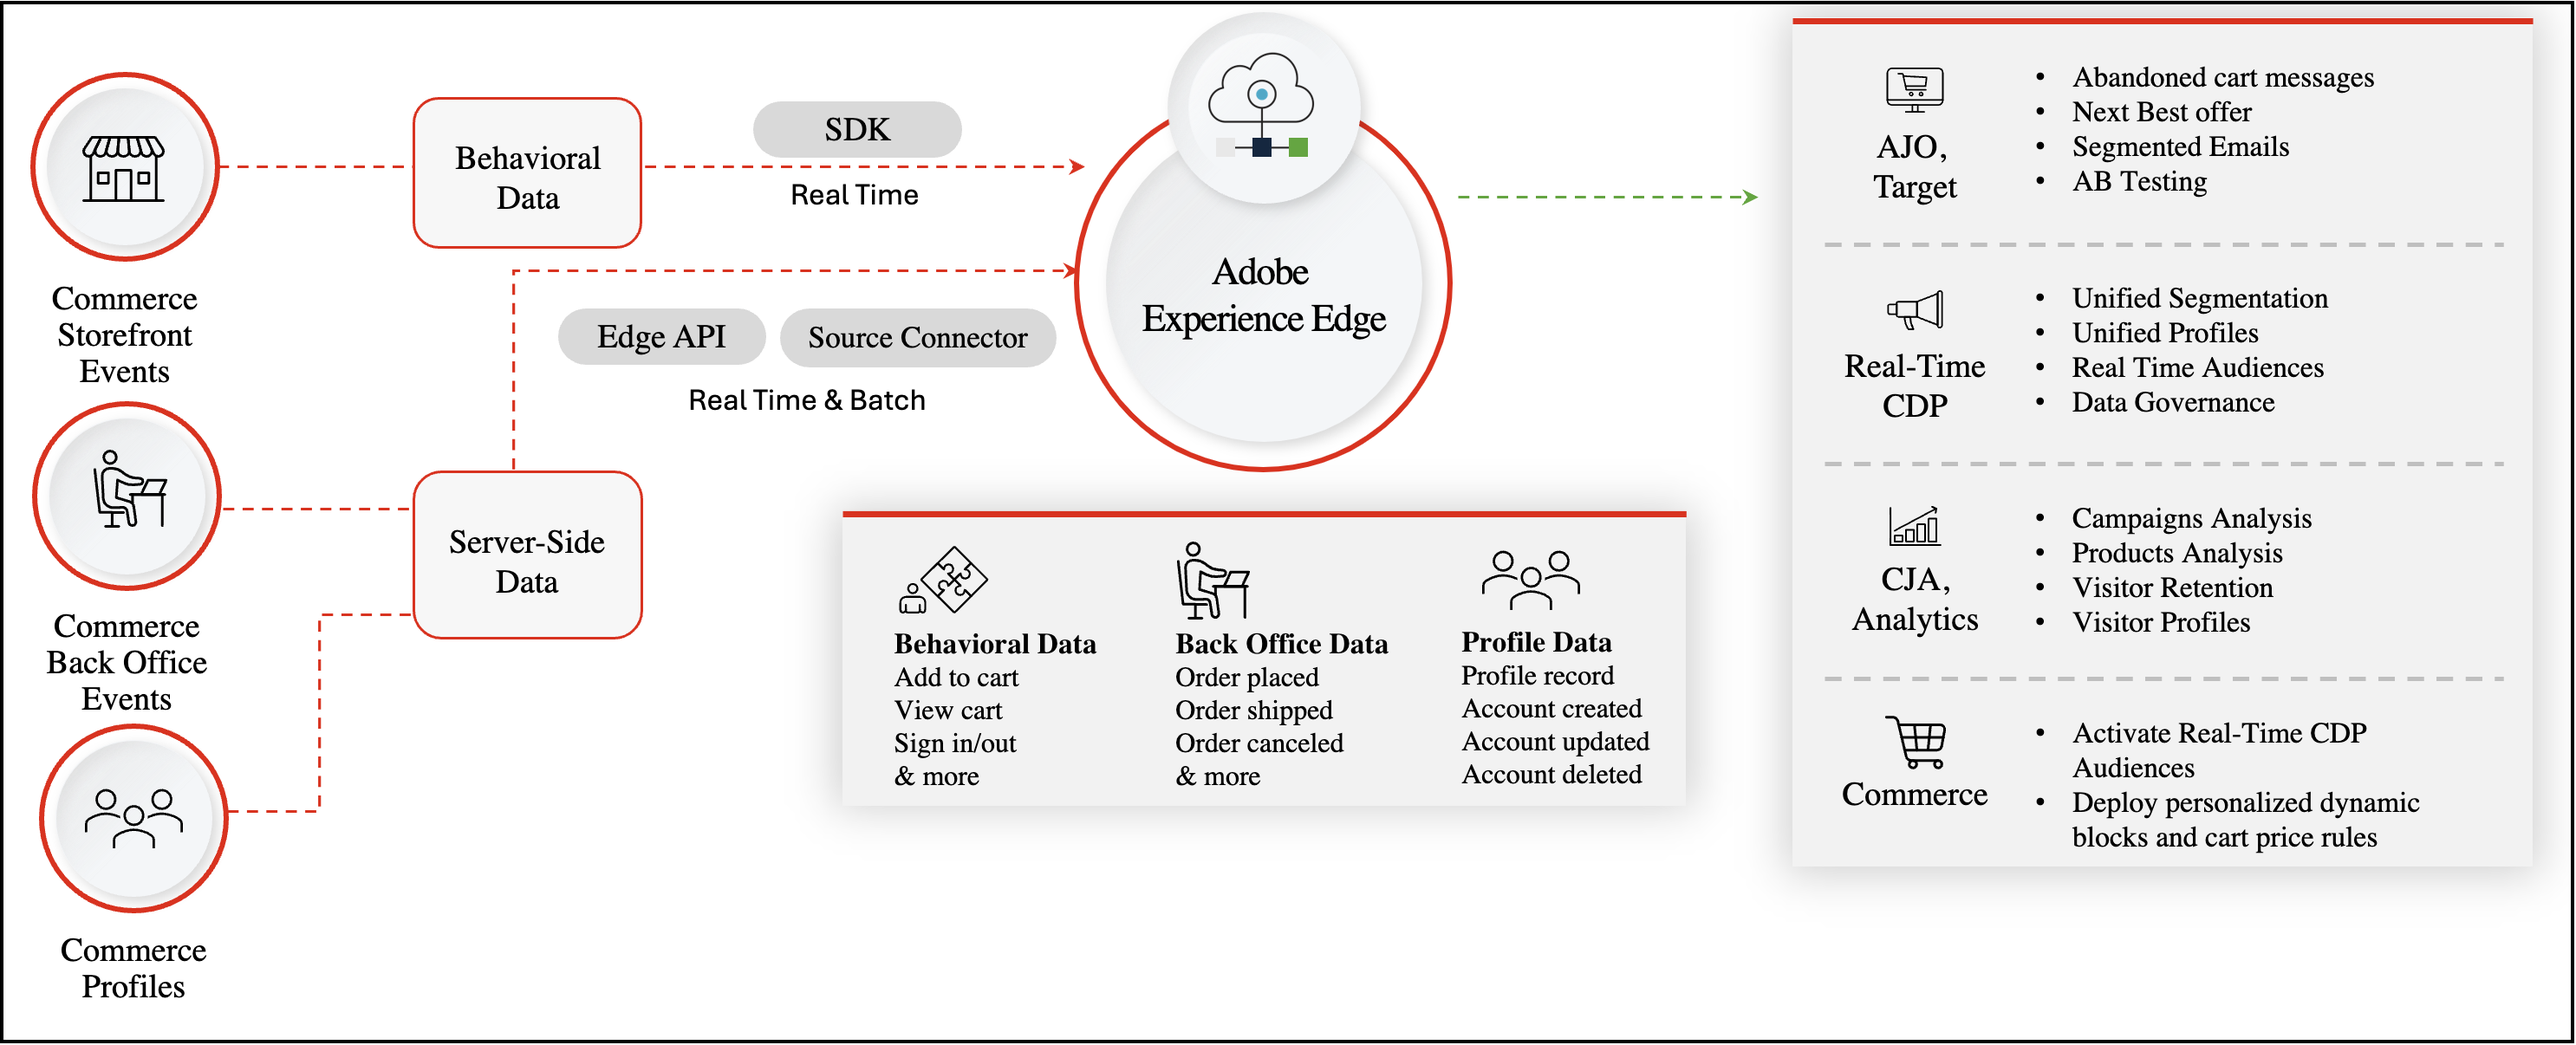
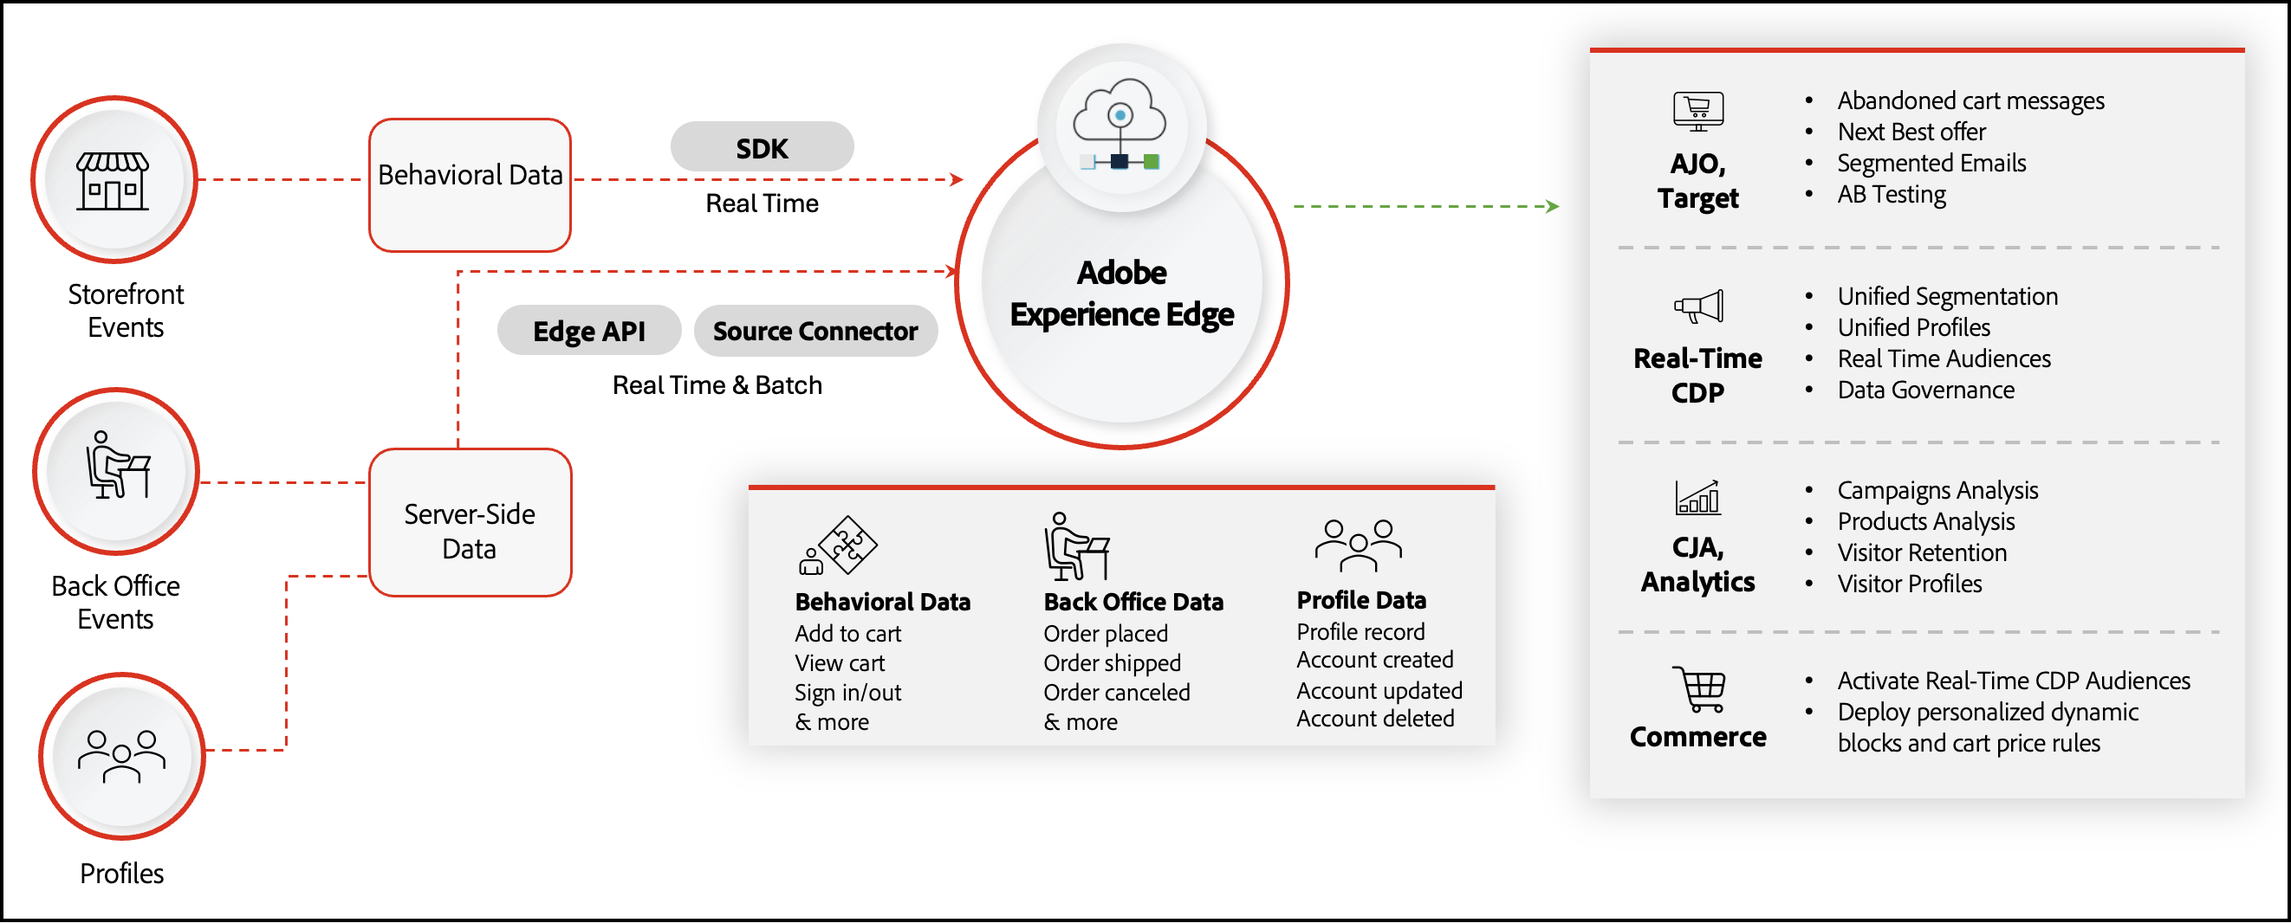
enter feedback

diff --git a/help/customers/personalize-scale.md b/help/customers/personalize-scale.md
@@ -21,21 +21,52 @@ This article discusses each of the above concepts in more detail.
 
 Successful personalization starts with customer context. In this section, you learn about the data types that are available to help you build the customer context.
 
-### Behavioral data
+### Storefront data
 
-Behavioral data answers the question: How do shoppers interact with your site? For example:
+Storefront data, also called behavioral or browser data, answers the question: How do shoppers interact with your site? For example
 
 - What products and categories are my shoppers most interested in?
 - What kind of search queriers are my shoppers most engaged in?
-- What is the order life cycle like? Are my shoppers returning products?
 - Are my shoppers adding products to the cart and then abandoning it?
 - Are my shoppers using a desktop or mobile browser?
 
-While this list is not exhaustive, it helps us shed light on the diverse domains where behavioral information can be captured
+The following storefront events capture data that can help you answer these questions:
 
-### Customer profile data
+- View page
+- Search request
+- Search response
+- View category
+- View product page
+- Add to cart
+- View cart
+- Sign in
+- Sign out
+- Start checkout
+- Complete checkout
+- Create requisition list
+- Add to requisition list
+- Remove from requisition list
+- Quote accepted
 
-Customer profile data answers the question: Who are your shoppers? For example, what is their:
+### Back office data
+
+Back office data, also called server-side data, answers the question: What is the order life cycle for my shoppers? For example:
+
+- Are there products that are purchased more frequently based on season?
+- Are my shoppers returning products?
+- How can I calculate lifetime customer value?
+
+The following back office events capture data that can help you answer these questions:
+
+- Order placed
+- Order returned
+- Order shipped
+- Order canceled
+- Order history (past five years of transactions)
+
+### Customer profile and segment data
+
+Customer profile data answers the question: Who are your shoppers? Which segments do your shoppers qualify for? For example:
 
 - Name
 - Gender
@@ -43,87 +74,70 @@ Customer profile data answers the question: Who are your shoppers? For example, 
 - Loyalty status
 - Phone number
 - Email address
-
-### Segment data
-
-Segment data answers the question: Which segments do your shoppers qualify for. For example, are they:
-
-- Eligible for upgrades
+- Loyalty status
+- Phone number
+- Email address
+- Eligibility for upgrades
 - Cross-channel shoppers
 - Prospects for new products
 - Gold, silver, or bronze loyalty members
 
-The above data forms the foundation of the Commerce customer context, which helps you know what products your customers are viewing and ultimately purchasing. You can then target their interests and personalize their experience.
+The following profile events capture data that can help you answer these questions:
 
-In the next two sections, you learn how you can use this data in [Adobe Experience Platform](#using-commerce-data-in-adobe-experience-platform) and in [native Commerce features](#using-commerce-data-in-native-commerce-features) to personalize the shopping experience.
+- Profile record
+- Account created
+- Account updated
+- Account deleted
+
+The above data forms the foundation of the Commerce customer and order context, which helps you know what products your customers are viewing and ultimately purchasing. You can then target their interests and personalize their experience. In the next section, you learn what types of personalized experiences you can engage in with  your shoppers.
+
+## Types of personalized experiences
+
+The customer and order context data in Commerce fuels the following types of personalized experiences:
+
+|Experience|Description|
+|---|---|
+|**Product discovery**|Contains merchandising services that are [deployed as SaaS](https://experienceleague.adobe.com/docs/commerce-merchant-services/user-guides/integration-services/saas.html). These are features that allow you to use behavioral data, product attributes, and inventory levels to automatically personalize product discovery across search results, product recommendations, and browsing pages. These features all use [Adobe Sensei AI](https://business.adobe.com/products/sensei/adobe-sensei.html).|
+|**Site content**|Refers to the ability to deploy personalized dynamic content blocks based on the current customer browsing your site.|
+|**Offers and campaigns**|Lets you deploy personalized promotional content based on segment data.|
+|**Measurement**|Uses data intelligence to better understand your business including revenue, channel and merchandise performance, promotions, and so on.|
+
+In the next two sections, you learn how you can use this data to create personalized experiences in [Adobe Experience Platform](#using-commerce-data-in-adobe-experience-platform) and in [native Commerce features](#using-commerce-data-in-native-commerce-features).
 
 ## Using Commerce data in Adobe Experience Platform
 
-The Adobe Experience Platform provides a suite of technologies, that when hydrated with data from your Commerce store, can distribute that data through the Edge Network to other Adobe DX products to unlock insights into your shopper's buying behavior. With these deep insights, you can create a more personalized shopping experience across all channels.
+To create a personalized experience for your shoppers across all channels, send your Commerce data to the Experience Platform Edge Network using the [[!DNL Data Connection]](https://experienceleague.adobe.com/docs/commerce-merchant-services/data-connection/overview.html) extension.
 
 ![How data flows to the Experience Platform edge](assets/commerce-edge.png){width="700" zoomable="yes"}
 
-To learn more about how you can send your Commerce data to the Experience Platform, see [Data Connection](https://experienceleague.adobe.com/docs/commerce-merchant-services/data-connection/overview.html).
+In the above image, your storefront, back office, and customer profile data is sent to the Experience Platform edge using an SDK, API, and a source connector. You do not need to fully understand how those pieces work as the extension handles the data sharing complexity for you. When the event data is at the edge, you can pull that data into other Experience Platform applications.
 
-In the following section, you learn how you can use native Commerce features, such as Product Recommendations and Live Search to create that personalized shopping experience. You will also learn about a feature called [!DNL Audience Activation], which uses data from a product available in the Experience Platform called Real-Time CDP. While Real-Time CDP is not native to Commerce, its information can be ingested into Commerce through the [[!DNL Audience Activation]](https://experienceleague.adobe.com/docs/commerce-admin/customers/audience-activation.html) extension.
+The following table highlights some of the Experience Platform applications available and how those applications use your Commerce data.
+
+|Experience|Application|How Commerce Data is Used|
+|---|---|---|
+|**Site content**|[Adobe [!DNL Real-Time CDP]](https://experienceleague.adobe.com/docs/experience-platform/rtcdp/intro/rtcdp-intro/overview.html)|Adobe Commerce data fuels unified customer profiles, with Real-Time CDP stitching data from across sources (ERP, CRM, CMS, POS) into singular profiles. Real-Time CDP can also create both rules-based and AI-based segments to then use across your marketing solution set. You can also use Real-Time CDP audiences to personalize content blocks, promotions, and related product rules. See [[!DNL Audience Activation]](../customers/audience-activation.md) to learn more.|
+||[Adobe [!DNL Target]](https://experienceleague.adobe.com/docs/target/using/introduction/intro.html)|Adobe Commerce data can be activated in Adobe [!DNL Target] for testing, optimization, and creating dynamic landing pages. You can personalize the order that content is shown on a page, such as descriptions, specifications, reviews, and recommended products based on the Commerce data sent.|
+|**Offers and campaigns**|[Adobe [!DNL Journey Optimizer]](https://experienceleague.adobe.com/docs/journey-optimizer/using/get-started/get-started.html)|Adobe Commerce behavioral and back office data can serve as a trigger for personalized omni-channel journeys, including email campaigns, SMS, push notifications and more.|
+|**Measurement**|[Adobe [!DNL Analytics]](https://experienceleague.adobe.com/docs/analytics/analyze/admin-overview/analytics-overview.html) and [Customer [!DNL Journey Analytics]](https://experienceleague.adobe.com/docs/analytics-platform/using/cja-overview/cja-overview.html)|Commerce sends both storefront and back-office data to Customer [!DNL Journey Analytics] (and only storefront data to Adobe [!DNL Analytics]) to allow for richer analysis beyond basic metrics in Adobe Commerce Intelligence, such as revenue, merchandise, and promotions.|
+
+
+To learn more about how you can send your Commerce data to the Experience Platform, see [Data Connection](https://experienceleague.adobe.com/docs/commerce-merchant-services/data-connection/overview.html).
 
 ## Using Commerce data in native Commerce features
 
-Sitting on top of the customer context data in Commerce is the experience layer. This layer is composed of the Commerce features that can act on the context data and is divided into four main pillars:
+In the following section, you learn how you can use native Commerce features, such as Product Recommendations and Live Search to create a personalized shopping experience. You will also learn about a feature called [!DNL Audience Activation], which uses data from a product available in the Experience Platform called Real-Time CDP, as mentioned [previously](#using-commerce-data-in-adobe-experience-platform). While Real-Time CDP is not native to Commerce, its information can be ingested into Commerce through the [[!DNL Audience Activation]](../customers/audience-activation.md) extension.
 
-- Product discovery
-- Site content
-- Offers and campaigns
-- Measurement
+The following table highlights the Commerce features available to turn the Commerce customer and order context data into actionable insights.
 
-The following sections describe each of the pillars in the experience layer in more detail and provides the list of available Commerce features you can use to turn the context data into actionable insights.
-
-### Product discovery
-
-The product discovery pillar contains merchandising services that are [deployed as SaaS](https://experienceleague.adobe.com/docs/commerce-merchant-services/user-guides/integration-services/saas.html). These are features that allow you to use behavioral data, product attributes, and inventory levels to automatically personalize product discovery across search results, product recommendations, and browsing pages. These features all use [Adobe Sensei AI](https://business.adobe.com/products/sensei/adobe-sensei.html).
-
-#### Commerce features to use
-
-You can use the following Commerce features to assist in product discovery.
-
-- **Product Recommendations** - Displays AI-fueled product recommendations based on shopper behavior, trends, product similarity and more. When combined with your Adobe Commerce catalog, product recommendations deliver a highly engaging, relevant, and personalized experience. [Learn more](https://experienceleague.adobe.com/docs/commerce-merchant-services/product-recommendations/guide-overview.html).
-
-- **Live Search** - Uses AI ranking algorithms to personalize and optimize search results based on a shopper's on-site behavioral actions, boosting search relevance and conversion. [Learn more](https://experienceleague.adobe.com/docs/commerce-merchant-services/live-search/guide-overview.html).
-
-- **Category Merchandising** - Accessed from the Live Search Admin, category merchandising uses AI to automatically rerank the sequence of products on each category page to boost relevance and conversion for every shopper. You can create and manage AI-powered rules to automatically rerank product sequencing on category pages according to shopper actions and affinities. [Learn more](https://experienceleague.adobe.com/docs/commerce-merchant-services/live-search/live-search-admin/category-merch.html).
-
-### Site content
-
-The site content pillar refers to the ability to deploy personalized dynamic content blocks based on the current customer browsing your site.
-
-#### Commerce features to use
-
-You can use the following Commerce features to assist in personalizing site content.
-
-- **Dynamic blocks informed by native Commerce features** - Allows you to deliver personalized site content based on logic configured in price rules and customer segments. [Learn more](https://experienceleague.adobe.com/docs/commerce-admin/content-design/elements/dynamic-blocks/dynamic-blocks.html).
-
-- **Dynamic blocks informed by Real-Time CDP audiences** - Enables merchants to deliver personalized site content based on audiences configured in Real-Time CDP. [Learn more](https://experienceleague.adobe.com/docs/commerce-admin/customers/audience-activation.html).
-
-### Offers and campaigns
-
-The offers and campaigns pillar lets you deploy personalized promotional content based on segment data.
-
-#### Commerce features to use
-
-You can use the following Commerce features to assist in creating personalized offers and campaigns.
-
-- **Cart price rules** - Lets you apply discounts to items in the shopping cart based on a set of conditions. [Learn more](https://experienceleague.adobe.com/docs/commerce-admin/marketing/promotions/cart-rules/price-rules-cart.html).
-
-- **Dynamic blocks informed by native Commerce features** - Allows you to display personalized banner promotions based on customer segments configured natively in Commerce. [Learn more](https://experienceleague.adobe.com/docs/commerce-admin/content-design/elements/dynamic-blocks/dynamic-blocks.html).
-
-- **Dynamic blocks informed by Real-Time CDP audiences** - Allows you to display personalized promotions based on audiences configured in Real-Time CDP. [Learn more](https://experienceleague.adobe.com/docs/commerce-admin/customers/audience-activation.html).
-
-### Measurement
-
-The measurement pillar uses data intelligence to better understand your business including revenue, channel and merchandise performance, promotions, and so on.
-
-#### Commerce features to use
-
-You can use the following Commerce feature to assist in measuring the success of any personalization at scale implementation.
-
-- **Adobe Commerce Intelligence** - (Formerly known as Magento Business Intelligence) is a cloud platform that provides best practice insights to help you make data-driven decisions and take clear and informed actions. Adobe Commerce Intelligence can analyze your data to help you answer questions about order growth, customer behavior, and the effectiveness of promotional strategies. [Learn more](https://experienceleague.adobe.com/docs/commerce-business-intelligence/mbi/getting-started.html).
+|Experience|Feature|Description|
+|---|---|---|
+|**Product discovery**|[Live Search](https://experienceleague.adobe.com/docs/commerce-merchant-services/live-search/guide-overview.html)|Uses AI ranking algorithms to personalize and optimize search results based on a shopper's on-site behavioral actions, boosting search relevance and conversion.|
+||[Product Recommendations](https://experienceleague.adobe.com/docs/commerce-merchant-services/product-recommendations/guide-overview.html)|Displays AI-fueled product recommendations based on shopper behavior, trends, product similarity and more. When combined with your Adobe Commerce catalog, product recommendations deliver a highly engaging, relevant, and personalized experience.|
+||[Category Merchandising](https://experienceleague.adobe.com/docs/commerce-merchant-services/live-search/live-search-admin/category-merch.html)|Accessed from the Live Search Admin, category merchandising uses AI to automatically rerank the sequence of products on each category page to boost relevance and conversion for every shopper. You can create and manage AI-powered rules to automatically rerank product sequencing on category pages according to shopper actions and affinities.|
+|**Site content**|[Dynamic blocks informed by native Commerce features](https://experienceleague.adobe.com/docs/commerce-admin/content-design/elements/dynamic-blocks/dynamic-blocks.html)|Allows you to deliver personalized site content based on logic configured in price rules and customer segments.|
+||[Dynamic blocks informed by Real-Time CDP audiences](../customers/audience-activation.md)|Enables merchants to deliver personalized site content based on audiences configured in Real-Time CDP.|
+|**Offers and campaigns**|[Cart price rules](https://experienceleague.adobe.com/docs/commerce-admin/marketing/promotions/cart-rules/price-rules-cart.html)|Lets you apply discounts to items in the shopping cart based on a set of conditions.|
+||[Dynamic blocks informed by native Commerce features](https://experienceleague.adobe.com/docs/commerce-admin/content-design/elements/dynamic-blocks/dynamic-blocks.html)|Allows you to display personalized banner promotions based on customer segments configured natively in Commerce.|
+||[Dynamic blocks informed by Real-Time CDP audiences](../customers/audience-activation.md)|Allows you to display personalized promotions based on audiences configured in Real-Time CDP.|
+|**Measurement**|[Adobe Commerce Intelligence](https://experienceleague.adobe.com/docs/commerce-business-intelligence/mbi/getting-started.html)|(Formerly known as Magento Business Intelligence) is a cloud platform that provides best practice insights to help you make data-driven decisions and take clear and informed actions. Adobe Commerce Intelligence can analyze your data to help you answer questions about order growth, customer behavior, and the effectiveness of promotional strategies.|
